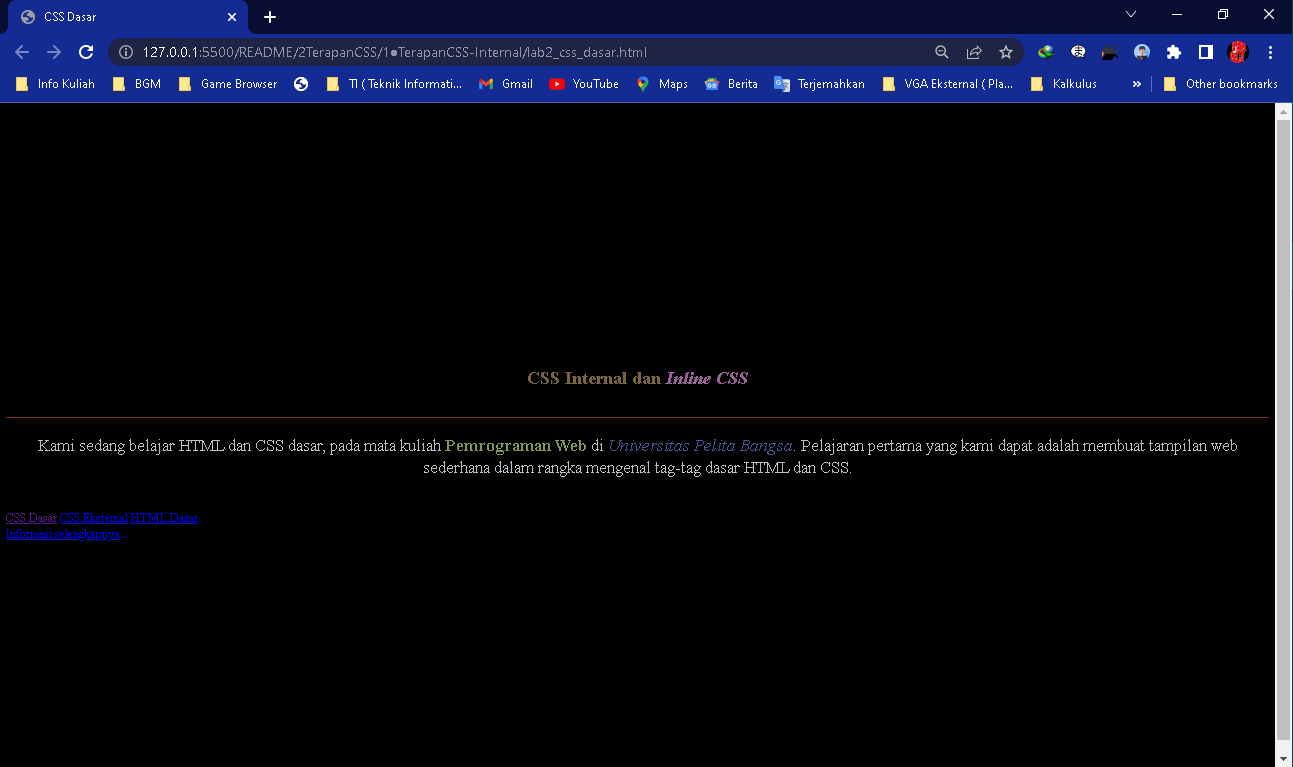
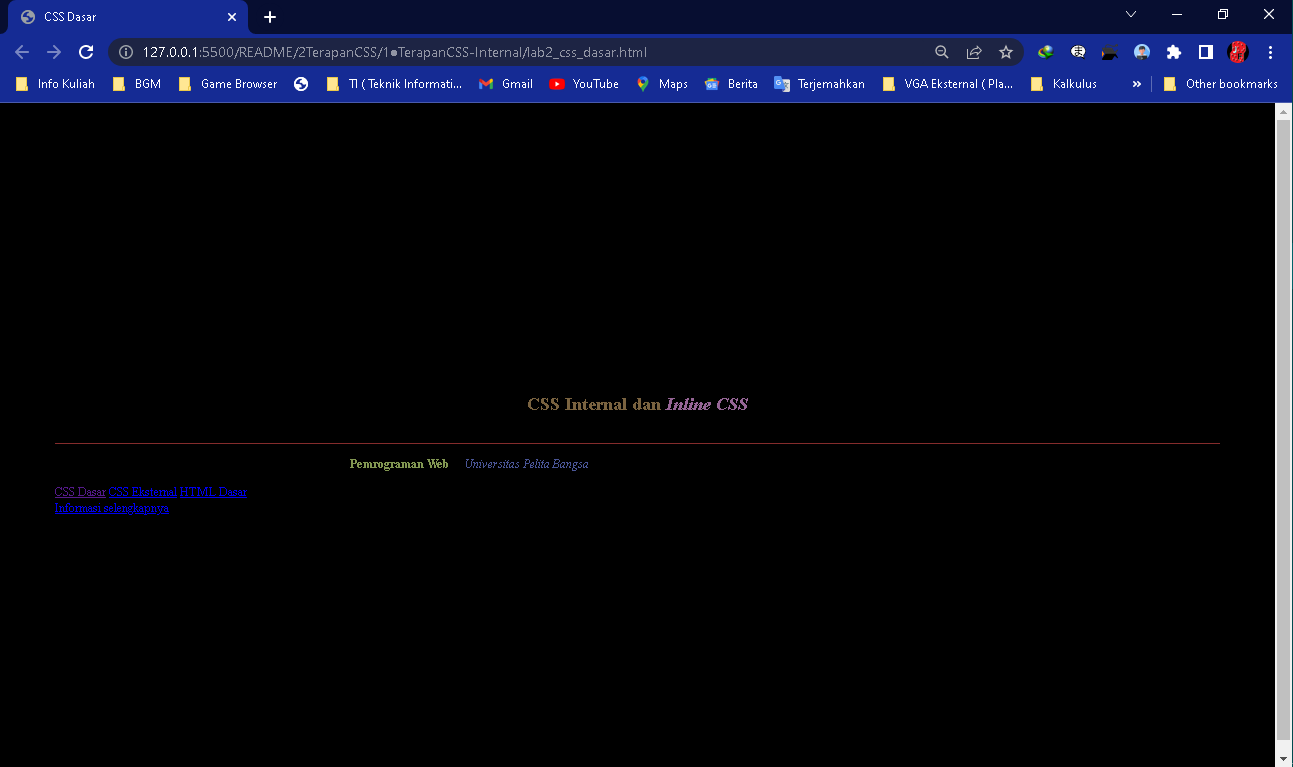
Readme Checkpoint + Fix Typo

Changed region(s): [[0.0309, 0.5698, 0.959, 0.6297], [0.0, 0.6297, 0.1856, 0.7197], [0.4022, 0.4798, 0.5878, 0.5398]]

diff --git a/README.md b/README.md
@@ -60,7 +60,7 @@ Pertama buat file dokumen HTML dan save as dengan format nama ``lab2_css_dasar.h
     <meta charset="UTF-8">
     <meta name="viewport" content="width=device-width, initial-scale=1.0">
     <title>CSS Dasar</title>
-	<link rel = "icon" href ="pic/logo.png" type = "image/x-icon">
+	<link rel = "icon" href ="logo.png" type = "image/x-icon">
 </head>
 <body>
     <!-- CSS ID Selector -->
@@ -89,14 +89,14 @@ Pertama buat file dokumen HTML dan save as dengan format nama ``lab2_css_dasar.h
 Selanjutnya Run untuk tampilkan output 
 
 <p align="center">
-	<img src="SS/output_doc_html.png" alt="UPB">
+	<img src="SS/output_doc_html.png" alt="SS - doc_html">
 </p>
 
 ## 2. Mengdeklarasikan 3 Jenis CSS
 
 Setelahnya sematkan CSS, terdapat 3 jenis CSS digunakan dalam website sampai saat ini, yaitu CSS Internal, inline, dan Eksternal.
 
-### ● Penerapan CSS Internal dalam Web
+### ● Penerapan CSS Internal
 Pertama mengdeklarasikan css internal dalam dokumen html, berikut merupakan koding css internal yang akan disematkan dalam kerangka head
 
 ```html
@@ -112,7 +112,18 @@ Selanjutnya sematkan koding css pada kerangka head sebagai contoh berikut
 <head>
     <title>CSS Dasar</title>   
     <style>       
-        h1 {
+        body {
+            min-height: 100vh;
+            display: flex;
+            align-items: center;
+            justify-content: center;
+            background-color: #000000;
+        }
+		header {
+			min-height: 80px;
+			border-bottom:1px solid #852c2c;
+		}
+		h1 {
         font-size: 24px;
         color: #7a6340;
         text-align: center;
@@ -127,32 +138,17 @@ Selanjutnya sematkan koding css pada kerangka head sebagai contoh berikut
         p i {
             color:#4a5697;
         }
-
-		header {
-			min-height: 80px;
-			border-bottom:1px solid #852c2c;
-		}
-
-        body{
-            min-height: 100vh;
-            display: flex;
-            align-items: center;
-            justify-content: center;
-            background-color: #000000;
-        }
     </style>
 </head>
 ```
 Lakukan refresh pada halaman web sebelumnya untuk perubahan pada tampilan web
 
 <p align="center">
-	<img src="SS/output_css_internal.png" alt="UPB">
+	<img src="SS/output_css_internal.png" alt="SS - CSS Internal">
 </p>
 
-Pada pernyataan tag css internal di atas dapat di jelaskan :
-
 #### ⏵ Style Selektor Tag h1 (header 1)
-Pada ``<style>`` tag ``<h1>`` untuk mendeklarasikan elemen style h1 atau desain pada elemen header 1 di dalam kerangka ``<body>...</body>``
+Pada tag ``<style>`` tag ``<h1>`` untuk menyematkan  style css di dalam kerangka tag ``<body>...</body>`` tertuju kepada tag ``<h1>``.
 
 ```html  
     <style>       
@@ -171,16 +167,14 @@ Pada ``<style>`` tag ``<h1>`` untuk mendeklarasikan elemen style h1 atau desain 
                 <h1>CSS Internal dan <i>Inline CSS</i></h1>
 	</body>
 ```
-Pernyataan di atas dapat di nyatakan :
-
-Elemen Header 1 di sematkan dengan desain properti css yaitu, fungsi :
+Berikut merupakan properti CSS pada tag ``<h1>`` :
 - ``font-size``, mengatur ukuran besar kecilnya font tersebut,
 - ``color``, mengubah warna dari tulisan,
 - ``text-align``, mengatur posisi teks, dan
 - ``padding``, mengatur jarak elemen HTML dari dalam.
 
 #### ⏵ Style Selektor Tag p (paragraf)
-Pada ``<style>`` tag ``<p>`` untuk mendeklarasikan elemen style atau desain pada elemen paragraf di dalam kerangka ``<body>...</body>``
+Pada tag ``<style>`` tag ``<p>`` untuk menyematkan  style css di dalam kerangka tag ``<body>...</body>`` tertuju kepada tag ``<p>``, ``<b>``, dan ``<i>``.
 
 ```html  
     <style>       
@@ -194,16 +188,16 @@ Pada ``<style>`` tag ``<p>`` untuk mendeklarasikan elemen style atau desain pada
     </style>
 	....
 	<body>
-                <h1>CSS Internal dan <i>Inline CSS</i></h1>
+			<p>
+                Kami sedang belajar HTML dan CSS dasar, pada mata kuliah <b>Pemrograman Web</b> di <i>Universitas Pelita Bangsa</i>. Pelajaran pertama yang kami dapat adalah membuat tampilan web sederhana dalam rangka mengenal tag-tag dasar HTML dan CSS.
+			</p>
 	</body>			
 ```
-Pernyataan di atas dapat di nyatakan :
-
-Elemen ``<p>`` bold ``<b>`` dan italic ``<i>`` di sematkan dengan desain properti css yaitu, fungsi :
+Berikut merupakan properti CSS pada tag paragraf ``<p>``, bold ``<b>``, dan italic ``<i>`` :
 - ``color``, mengubah warna dari tulisan.
 
-#### ⏵ Style Selektor Tag header
-Pada ``<style>`` tag ``<header>...</header>`` untuk mendeklarasikan elemen style atau desain pada elemen header di dalam kerangka ``<body>...</body>``
+#### ⏵ Style Selector Tag header
+Pada tag ``<style>`` tag ``<header>...</header>`` untuk menyematkan  style css di dalam kerangka tag ``<body>...</body>`` tertuju kepada tag ``<header>``.
 
 ```html
 	<style>       
@@ -219,14 +213,12 @@ Pada ``<style>`` tag ``<header>...</header>`` untuk mendeklarasikan elemen style
             </header>
 	</body>
 ```
-Pernyataan di atas dapat di nyatakan :
-
-Elemen ``<header>`` di sematkan dengan desain properti css yaitu, fungsi :
+Berikut merupakan properti CSS pada tag ``<header>`` :
 - ``<min-height>``, mengatur minimal tinggi dari sebuah obyek, dan
 - ``<border-bottom>``, membuat style garis pinggir bagian bawah.
 
-#### ⏵ Style Selektor Tag body
-Pada ``<style>`` tag ``<body>...</body>`` untuk mendeklarasikan elemen style pada kerangka ``<body>...</body>``
+#### ⏵ Style Selector Tag body
+Pada tag ``<style>`` tag ``<body>...</body>`` untuk menyematkan style css di semua elemen pada kerangka ``<body>...</body>``
 
 ```html
 	<style>       
@@ -245,11 +237,80 @@ Pada ``<style>`` tag ``<body>...</body>`` untuk mendeklarasikan elemen style pad
 		...
 	</body>
 ```
-Pernyataan di atas dapat di nyatakan :
-
-Elemen ``<body>`` di sematkan dengan desain properti css yaitu, fungsi :
+Berikut merupakan properti CSS pada tag ``<body>`` :
 - ``<min-height>``, mengatur minimal tinggi dari sebuah obyek, 
 - ``<display>``, mengatur tampilan pada elemen,
 - ``<align-items>``, menyalurkan item-item pada container flex yang diletakkan sepanjang garis tegak lurus pada sumbu utama (cross-axis),
 - ``<justify-content>``, mensejajarkan item-item diantara flexbox agar container dari flexbox tersebut bisa mendistribusikan ruang kosong yang tersisa ketika item flex dalam satu baris tersebut tidak flexsibel atau meskipun flexsibel tapi sudah mencapai batas ukuran maksimum, dan
-- ``<background-color>``, memberikan warna pada latar belakang suatu elemen .
+- ``<background-color>``, memberikan warna pada latar belakang suatu elemen.
+
+### ● Penerapan CSS Inline
+Kedua menerapkan CSS inline atau menyisipkan properti css pada elemen. Berikut adalah koding css inline di sisipkan pada elemen paragraf ``<p>``.
+
+```html
+			<p style="text-align: center; color: #bac1c7; line-height: 30px;
+						margin-bottom: 40px; font-size: 22px;">
+						....
+			</p>
+```
+Output :
+
+<p align="center">
+	<img src="SS/output_css_inline.png" alt="SS - CSS Inline">
+</p>
+
+Properti yang di sematkan pada tag paragraf ``<p>`` :
+- ``text-align``, mengatur posisi teks,
+- ``color``, mengubah warna dari tulisan,
+- ``line-height``, mengatur ketinggian kotak garis elemen,
+- ``margin-bottom``mengatur batas kertas sebelah bawah, dan
+- ``font-size``, mengatur ukuran besar kecilnya font tersebut.
+
+### ● Penerapan CSS Eksternal
+Ketiga memanggil file dengan format .css sebagai desain untuk html secara terpisah sehingga tampilan html tampak lebih sedikit rapih.
+
+Buat file dengan format .css lalu isi koding css setelahnya simpan dan contoh koding sebagai berikut
+
+```css
+nav {
+    color:#fff;
+    padding: 10px;
+    }
+    nav a {
+    display: flex;
+    justify-content: center;
+    color: #fff;
+    text-decoration: none;
+    padding:10px 20px;
+    }
+    nav .active,
+    nav a:hover {
+    background: #9ac919c9;
+    }
+```
+Selanjutnya tambahkan tag ``<link>`` pada kerangka ``<head>`` untuk memanggil file .css yang telah dibuat sebelumnya
+
+```html
+<head>
+<!-- menyisipkan css eksternal -->   
+    <link rel="stylesheet" href="style_eksternal.css" type="text/css">
+</head>
+```
+Selanjutnya tampilkan output pada file html yang telah di sematkan tag ``<link>`` sebelumnya
+
+<p align="center">
+	<img src="SS/output_css_eksternal_nav.png" alt="SS - CSS Eksternal_nav">
+</p>
+
+Pada HTML tersebut memanggil file CSS untuk memberi style atau desain kepada tag ``<nav>``
+
+Berikut merupakan properti css di panggil dari file css :
+
+- ``color``, merubah warna pada tulisan,
+- ``padding``, untuk memberikan spasi atau ruang diantara konten dan border,
+- ``display``, untuk mengatur tampilnya suatu elemen,
+- ``justify-content``, mensejajarkan item-item diantara flexbox,
+- ``text-decoration``, untuk memberikan efek garis pada text,
+- ``.active``,  memberikan style ketika sebuah link telah terklik atau telah ada aksi pada element
+- ``:hover``, untuk membuat efek saat mouse mengenai suatu element HTML,
+- ``background``, untuk mengatur efek latar belakang pada suatu elemen.
